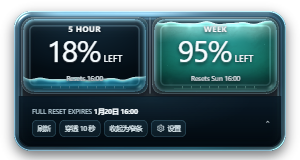
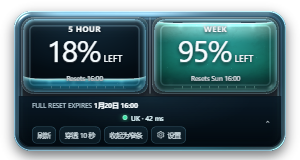
docs: refresh TomatoCloud UI evidence

diff --git a/src/main.tsx b/src/main.tsx
@@ -1,7 +1,7 @@
 import React from "react";
 import { createRoot } from "react-dom/client";
 import App from "./App";
-import type { CapacitySnapshot } from "./capacityTypes";
+import type { CapacitySnapshot, TomatoConnectionSnapshot } from "./capacityTypes";
 import { overlayLayoutSizes, type OverlayLayout } from "./windowClient";
 
 const visualFixture: CapacitySnapshot = {
@@ -22,6 +22,26 @@ const visualFixture: CapacitySnapshot = {
   observedAtMs: Date.now(),
 };
 
+const visualHealthyRoute: TomatoConnectionSnapshot = {
+  state: "healthy",
+  countryCode: "UK",
+  latencyMs: 42,
+  observedAtMs: Date.now(),
+  diagnostic: null,
+};
+
+const visualBlockedRoute: TomatoConnectionSnapshot = {
+  state: "blocked",
+  countryCode: null,
+  latencyMs: null,
+  observedAtMs: Date.now(),
+  diagnostic: {
+    code: "CRV-404",
+    message: "TomatoCloud route is unavailable",
+    detail: null,
+  },
+};
+
 const visualFixtureNames = new Set([
   "v4",
   "v7-healthy",
@@ -29,6 +49,7 @@ const visualFixtureNames = new Set([
   "v7-failed",
   "v7-expanded",
   "v7-collapsed",
+  "v7-route-blocked",
 ]);
 
 function resolveFixtureLayout(
@@ -63,6 +84,8 @@ const fixtureProps: React.ComponentProps<typeof App> = fixtureEnabled
   ? {
       initialLayout: fixtureLayout,
       loadSnapshot: createFixtureLoader(fixtureName),
+      loadTomatoConnection: async () =>
+        fixtureName === "v7-route-blocked" ? visualBlockedRoute : visualHealthyRoute,
       loadPreferences: async () => ({ opacity: 0.92, reducedMotion: false, x: null, y: null }),
       savePreferences: async () => undefined,
       enableClickThrough: async () => undefined,
